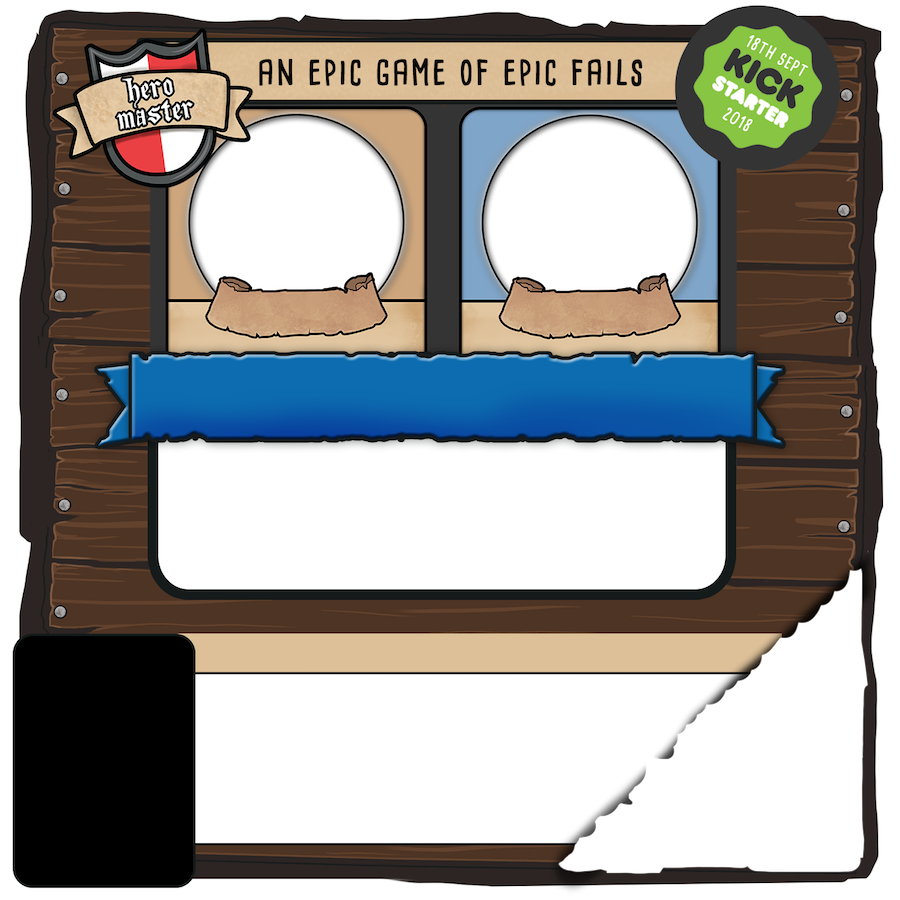
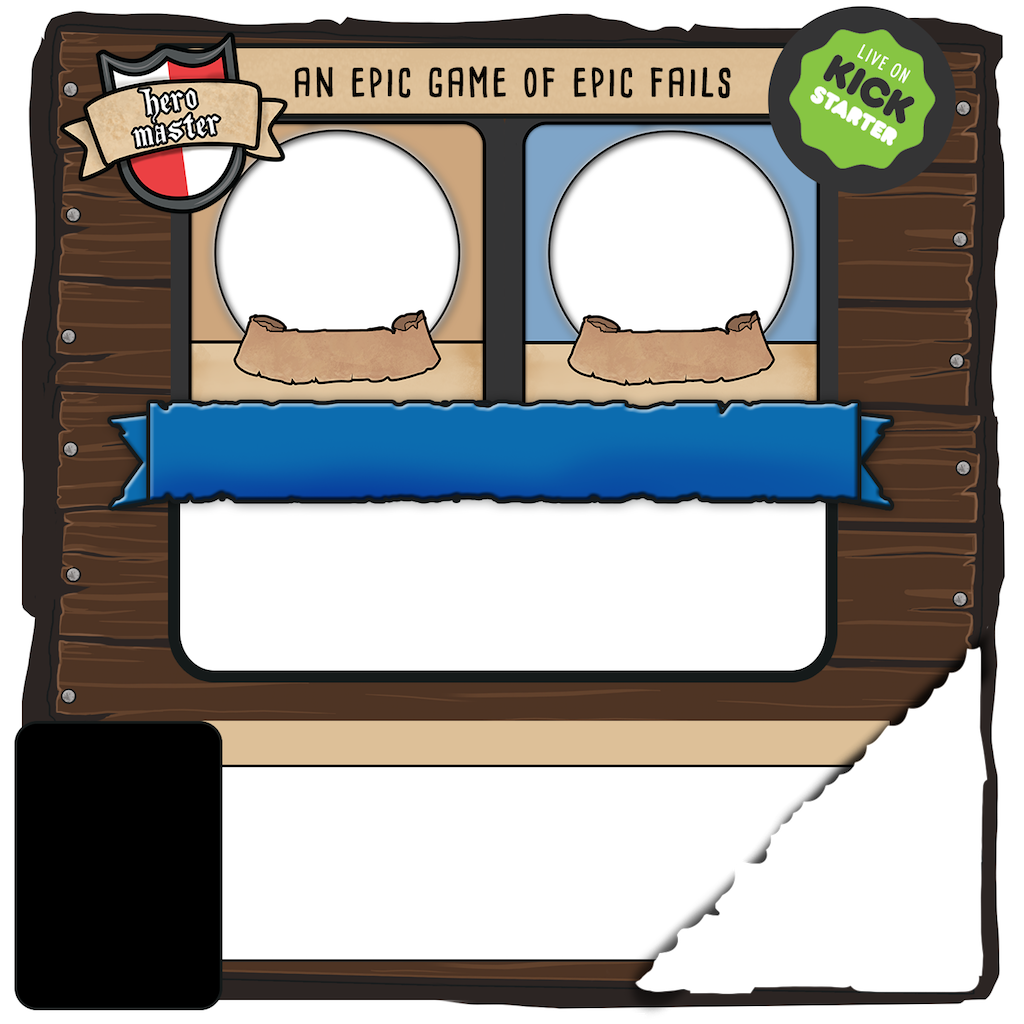
Commit

Changed region(s): [[0.1244, 0.0622, 0.2178, 0.1556], [0.8089, 0.0311, 0.9022, 0.0933], [0.8089, 0.1244, 0.84, 0.1556]]

diff --git a/src/components/facebook.js b/src/components/facebook.js
@@ -29,7 +29,7 @@ class Facebook extends Component {
             }}
             url={this.props.shareURL}
             quote={
-              'Check out the hilarious character I just made in the Hero Master: An Epic Game of Epic Fails character generator! Create you own, learn more about the game and claim your free gift here: https://thenobleartist.com/heromastergame Launching on Kickstarter 18th September 2018 #boardgames #games'
+              'Check out the character I just made in the Hero Master: An Epic Game of Epic Fails random character generator! Create you own, learn more about the game: now LIVE #Kickstarter https://thenobleartist.com/heromastergame  https://hero-master-characters.herokuapp.com/hero/1538662667048 via @thenobleartist'
             }
           >
             <FacebookIcon size={32} round={true} />

diff --git a/src/components/tweeter.js b/src/components/tweeter.js
@@ -29,7 +29,7 @@ class Tweeter extends Component {
             }}
             url={this.props.shareURL}
             title={
-              'Check out the hilarious character I just made in the Hero Master: An Epic Game of Epic Fails character generator! Create you own, learn more about the game and claim your free gift here: https://thenobleartist.com/heromastergame '
+              'Check out the character I just made in the Hero Master: An Epic Game of Epic Fails random character generator! Create you own, learn more about the game: now LIVE #Kickstarter https://thenobleartist.com/heromastergame  https://hero-master-characters.herokuapp.com/hero/1538662667048 via @thenobleartist'
             }
             via={'thenobleartist'}
             class="twitter-share-button"
